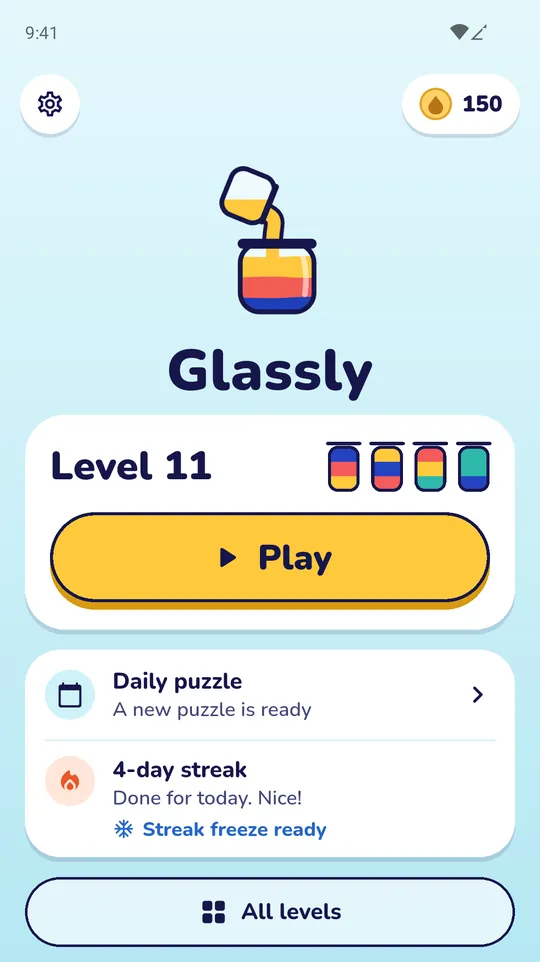
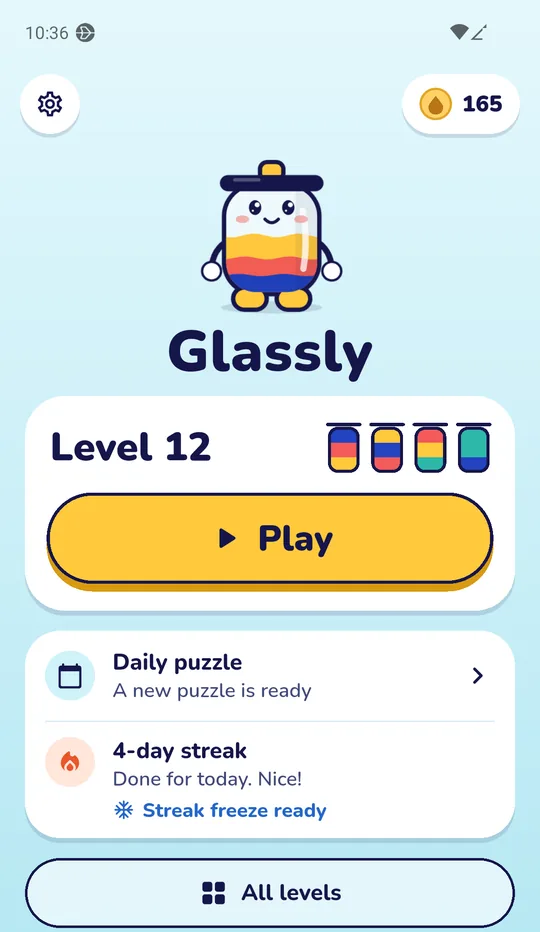
Landing: new Home with Mason the mascot, Mason feature line

diff --git a/index.html b/index.html
@@ -33,7 +33,7 @@
 <p><a class="btn" href="https://play.google.com/store/apps/details?id=com.gayenbd.waterpouring">Coming soon on Google Play</a></p>
 <p class="note">Not live yet. The button will open the store page once the game is published.</p>
 </div>
-<div class="phone"><img src="img/home.webp" width="540" height="962" alt="The Glassly home screen: a Level 11 card with a yellow Play button, a Today card with the daily puzzle and a 4-day streak, and an All levels button"></div>
+<div class="phone"><img src="img/home.webp" width="540" height="932" alt="The Glassly home screen: Mason the little jar above the Glassly name, a Level 12 card with a yellow Play button, a Today card with the daily puzzle and a 4-day streak, and an All levels button"></div>
 </section>
 
 <div>
@@ -52,6 +52,7 @@
 <li><strong>Undo, hints and an extra glass</strong> for when you are stuck.</li>
 <li><strong>Colourblind-friendly:</strong> free colour symbols (optionally with patterns), plus high contrast and calmer motion options.</li>
 <li><strong>Plays offline,</strong> with your progress saved on your device.</li>
+<li><strong>Meet Mason,</strong> the little jar who keeps you company on the home screen and cheers when you finish a level.</li>
 <li><strong>Calm by design:</strong> a relaxing sea-waves ambience, sound effects and haptics, each of which you can switch off any time.</li>
 </ul>
 </section>
